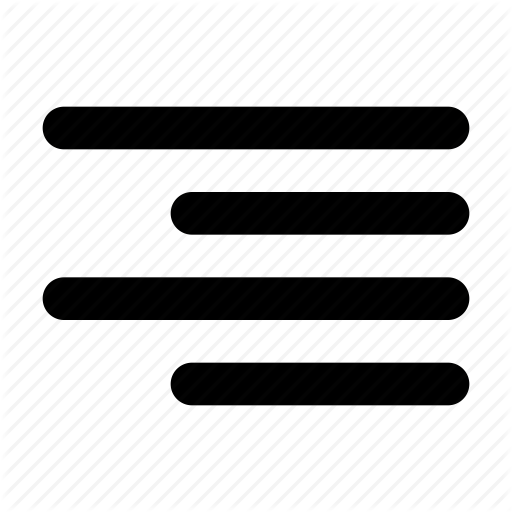
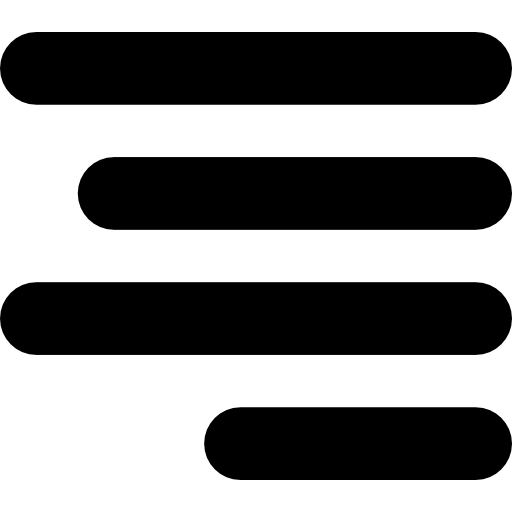
added special handlers for text alignment -Johnson

diff --git a/scripts/draft-post.js b/scripts/draft-post.js
@@ -116,6 +116,31 @@ const optionsTable =
 	"header": document.querySelector(".ql-header"),
 	"list": document.querySelector(".ql-list")
 }
+const alignIcon = document.querySelector(".ql-align");
+alignIcon.addEventListener("click", e =>
+{
+	alignIcon.classList.remove("ql-active");
+	if (alignIcon.getAttribute("data-current") === "left")
+	{
+		alignIcon.setAttribute("data-current", "center");
+		alignIcon.value = "right";
+		alignIcon.firstChild.setAttribute("src", "images/center-align-icon.png");
+	}
+	else if (alignIcon.getAttribute("data-current") === "center")
+	{
+		alignIcon.setAttribute("data-current", "right");
+		alignIcon.setAttribute("value", "left");
+		alignIcon.classList.add("ql-active");
+		alignIcon.firstChild.setAttribute("src", "images/right-align-icon.png");
+	}
+	else
+	{
+		alignIcon.setAttribute("data-current", "left");
+		alignIcon.setAttribute("value", "center");
+		alignIcon.firstChild.setAttribute("src", "images/left-align-icon.png");
+	}
+})
+
 for (let option in optionsTable)
 {
 	optionsTable[option].addEventListener("click", e =>
@@ -136,11 +161,16 @@ quill.on("editor-change", e =>
 	let currentFormat = quill.getFormat(quill.getSelection().index, quill.getSelection().length);
 	for (let option in optionsTable)
 	{
-		optionsTable[option].classList.remove("ql-active");
 		if (currentFormat[option] != null)
 			optionsTable[option].classList.add("active-option")
 		else
 			optionsTable[option].classList.remove("active-option");
+	}
+	switch(currentFormat.align)
+	{
+		case "center": alignIcon.firstChild.setAttribute("src", "images/center-align-icon.png"); break;
+		case "right": alignIcon.firstChild.setAttribute("src", "images/right-align-icon.png"); break;
+		default: alignIcon.firstChild.setAttribute("src", "images/left-align-icon.png"); break;
 	}
 })
 

diff --git a/draft-post.html b/draft-post.html
@@ -66,7 +66,7 @@
 				<section class="option-group">
 					<button class="option ql-list" value="bullet" title="Add bullet list item"><img src="images/bullet-list-icon.png" height="20px"></button>
 					<button class="option ql-list" value="ordered" title="Add numbered list item"><img src="images/numbered-list-icon.png" height="20px"></button>
-					<button class="option ql-align active-option" value="right" title="Change text alignment"><img src="images/left-align-icon.png" height="20px"></button>
+					<button class="option ql-align active-option" value="center" data-current="left" title="Change text alignment"><img src="images/left-align-icon.png" height="20px"></button>
 					<button class="option ql-header" title="Add heading/sub-heading"><img src="images/heading-icon.png" height="20px"></button>
 				</section>
 				<section class="option-group">

diff --git a/styles/draft-post.css b/styles/draft-post.css
@@ -148,6 +148,11 @@ footer #copyright
 	display: block;
 	margin: 1rem auto;
 }
+#editor-section #post-body li
+{
+	margin-left: 0;
+	padding-left: 0.5rem;
+}
 #editor-section #editor-header
 {
 	background-color: rgb(245, 245, 245);
